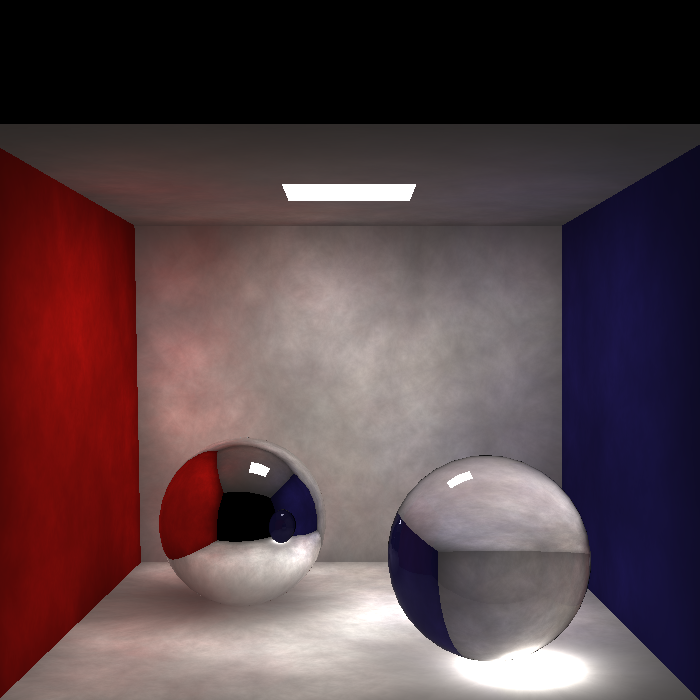
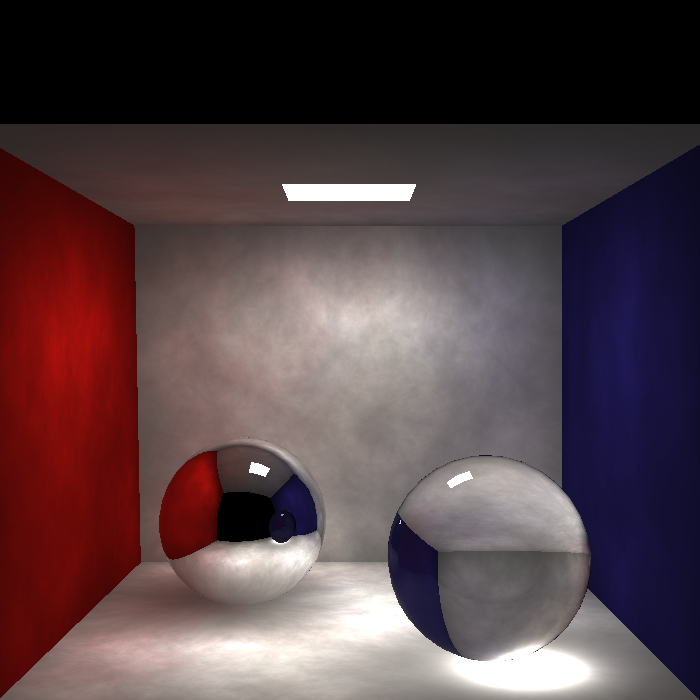
make clean of warnings

diff --git a/src/wavefront_material.rs b/src/wavefront_material.rs
@@ -64,22 +64,18 @@ impl MergeValues for Colour {
 impl<Raw: Copy + RawSurfaceValue + MergeValues, Texture: Copy + TextureSurfaceValue<Raw>>
   WFSurfaceProperty<Raw, Texture>
 {
-  pub fn new() -> WFSurfaceProperty<Raw, Texture> {
-    WFSurfaceProperty::None
-  }
   pub fn raw_for_fragment(&self, scene: &Scene, fragment: &Fragment) -> Raw {
     return match self {
       WFSurfaceProperty::None => Raw::empty(),
       WFSurfaceProperty::Single(v) => *v,
       WFSurfaceProperty::Texture(t) => t.raw_for_fragment(scene, fragment),
       WFSurfaceProperty::Complex(c, t) => c.merge(t.raw_for_fragment(scene, fragment)),
-      _ => panic!(),
     };
   }
   pub fn option_for_fragment(&self, scene: &Scene, fragment: &Fragment) -> Option<Raw> {
     return match self {
       WFSurfaceProperty::None => None,
-      raw => Some(self.raw_for_fragment(scene, fragment)),
+      _raw => Some(self.raw_for_fragment(scene, fragment)),
     };
   }
 }
@@ -167,7 +163,7 @@ impl Material for WFMaterial {
       return result;
     }
 
-    let mut transparent_colour = if let Some(transparent_colour) = result.transparent_colour {
+    let transparent_colour = if let Some(transparent_colour) = result.transparent_colour {
       transparent_colour
     } else {
       Colour::RGB(1.0, 1.0, 1.0) //return result;
@@ -176,8 +172,8 @@ impl Material for WFMaterial {
     let (refracted_vector, new_context): (Vec4d, RayContext) = match self.index_of_refraction {
       None => (f.view, ray.ray_context.clone()),
       Some(ior) => {
-        let V = f.view * -1.0;
-        let in_object = V.dot(f.true_normal) > 0.0;
+        let view = f.view * -1.0;
+        let in_object = view.dot(f.true_normal) > 0.0;
         let (ni, nt, new_context) = if in_object {
           let new_context = ray.ray_context.exit_material();
           (
@@ -191,7 +187,7 @@ impl Material for WFMaterial {
         };
         let mut nr = ni / nt;
 
-        let n_dot_v = normal.dot(V);
+        let n_dot_v = normal.dot(view);
 
         let inner = 1.0 - nr * nr * (1.0 - n_dot_v * n_dot_v);
         if inner < 0.0 {
@@ -221,7 +217,7 @@ impl Material for WFMaterial {
             refraction_weight -= fresnel_weight;
           }
           (
-            ((nr * n_dot_v - inner.sqrt()) * normal - nr * V).normalize(),
+            ((nr * n_dot_v - inner.sqrt()) * normal - nr * view).normalize(),
             new_context,
           )
         }
@@ -342,8 +338,6 @@ pub fn load_scene(settings: &SceneSettings) -> Scene {
 
   obj.load_mtls().unwrap();
 
-  let directory = scn.directory.clone();
-
   for [x, y, z] in obj.position.iter() {
     scn.positions.push(Vec4d::point(*x as f64, *y as f64, *z as f64));
   }
@@ -381,7 +375,6 @@ pub fn load_scene(settings: &SceneSettings) -> Scene {
     let mut object_triangles: Vec<Triangle> = vec![];
 
     let group_count = object.groups.len();
-    let mut lights: Vec<(usize, usize)> = vec![];
     for group_index in 0..group_count {
       let ref group = &object.groups[group_index];
       let material_index = if let Some(ref mat) = group.material {

diff --git a/src/photon_map.rs b/src/photon_map.rs
@@ -34,7 +34,6 @@ impl HasPosition for Photon {
 pub enum RecordMode {
   TerminatePath,
   DontRecord,
-  RecordAndTerminate,
   Record,
 }
 
@@ -49,7 +48,6 @@ impl RecordMode {
   pub fn should_terminate(&self) -> bool {
     match self {
       RecordMode::TerminatePath => true,
-      RecordMode::RecordAndTerminate => true,
       _ => false,
     }
   }
@@ -188,12 +186,12 @@ impl<Selector: PhotonSelector> PhotonMap<Selector> {
             let prob_diffuse = (surface.diffuse_colour * photon_colour).max_value() / photon_colour.max_value();
             let prob_specular = (surface.specular_colour * photon_colour).max_value() / photon_colour.max_value();
             let p = random(0.0, 1.0);
-            let (new_direction, new_colour) = if p < prob_diffuse {
+            let (new_direction, new_colour) = if p * remaining_weight < prob_diffuse {
               (
                 random_in_hemisphere(surface.normal),
                 surface.diffuse_colour * photon_colour * (1.0 / prob_diffuse),
               )
-            } else if p < (prob_diffuse + prob_specular) {
+            } else if p * remaining_weight < (prob_diffuse + prob_specular) {
               (
                 fragment.view.reflect(surface.normal),
                 surface.specular_colour * photon_colour * (1.0 / prob_specular),
@@ -310,7 +308,6 @@ fn is_specular(surface: &MaterialCollisionInfo) -> bool {
   let mut secondary_weight = 0.0;
   for secondary in &surface.secondaries {
     secondary_weight += secondary.2;
-    return true;
   }
   if random(0.0, 1.0) < secondary_weight {
     return true;
@@ -335,12 +332,11 @@ impl PhotonSelector for DiffuseSelector {
 
   fn weight_for_sample(
     &self,
-    position: Vec4d,
-    photon: &Photon,
-    photon_count: usize,
-    sample_radius: f64,
+    _position: Vec4d,
+    _photon: &Photon,
+    _photon_count: usize,
+    _sample_radius: f64,
   ) -> Option<f64> {
-    let photon_distance = (photon.position - position).length();
     Some(1.0)
   }
 }
@@ -366,10 +362,10 @@ impl PhotonSelector for CausticSelector {
   }
   fn weight_for_sample(
     &self,
-    position: Vec4d,
-    photon: &Photon,
-    photon_count: usize,
-    sample_radius: f64,
+    _position: Vec4d,
+    _photon: &Photon,
+    _photon_count: usize,
+    _sample_radius: f64,
   ) -> Option<f64> {
     Some(1.0) // / photon_count as f64)
   }

diff --git a/src/camera.rs b/src/camera.rs
@@ -3,22 +3,19 @@ use vectors::Vec4d;
 
 pub trait Camera {
   fn get_rays(&self, width: usize, height: usize) -> Vec<(usize, usize, f64, Ray)>;
-  fn get_differentials(&self, r: &Ray) -> (Ray, Ray);
 }
 
 pub struct PerspectiveCamera {
-  width: usize,
-  height: usize,
+  _width: usize,
+  _height: usize,
   position: Vec4d,
-  direction: Vec4d,
-  up: Vec4d,
-  fov: f64,
+  _direction: Vec4d,
+  _up: Vec4d,
+  _fov: f64,
   x_delta: Vec4d,
   y_delta: Vec4d,
   samples_per_pixel: usize,
   view_origin: Vec4d,
-  dxDifferential: Ray,
-  dyDifferential: Ray,
 }
 
 impl PerspectiveCamera {
@@ -51,18 +48,16 @@ impl PerspectiveCamera {
     let y_delta = (up * 2. * half_height) * (1. / height as f64);
 
     return PerspectiveCamera {
-      width,
-      height,
+      _width: width,
+      _height: height,
       position,
-      direction,
+      _direction: direction,
       view_origin,
-      up,
-      fov,
+      _up: up,
+      _fov: fov,
       x_delta,
       y_delta,
       samples_per_pixel,
-      dxDifferential: Ray::new(position, x_delta, None),
-      dyDifferential: Ray::new(position, y_delta, None),
     };
   }
 }
@@ -83,8 +78,5 @@ impl Camera for PerspectiveCamera {
       }
     }
     return result;
-  }
-  fn get_differentials(&self, _r: &Ray) -> (Ray, Ray) {
-    return (self.dxDifferential.clone(), self.dyDifferential.clone());
   }
 }

diff --git a/src/triangle.rs b/src/triangle.rs
@@ -1,6 +1,5 @@
 use bounding_box::*;
 use collision::Collision;
-use colour::Colour;
 use fragment::Fragment;
 use intersectable::*;
 use rand::{thread_rng, Rng};
@@ -203,23 +202,6 @@ impl Triangle {
     }
 
     return Some((Collision::new(t, Vec2d(u, v)), self));
-  }
-
-  pub fn barycentric_for_point(&self, position: Vec4d) -> (f64, f64, f64) {
-    // From https://gamedev.stackexchange.com/questions/23743/whats-the-most-efficient-way-to-find-barycentric-coordinates
-    let v0 = self.edges[0];
-    let v1 = self.edges[1];
-    let v2 = position - self.origin;
-    let d00 = v0.dot(v0);
-    let d01 = v0.dot(v1);
-    let d11 = v1.dot(v1);
-    let d20 = v2.dot(v0);
-    let d21 = v2.dot(v1);
-    let denom = d00 * d11 - d01 * d01;
-    let v = (d11 * d20 - d01 * d21) / denom;
-    let w = (d00 * d21 - d01 * d20) / denom;
-    let u = 1.0 - v - w;
-    return (u, v, w);
   }
 
   fn true_normal(&self) -> Vec4d {

diff --git a/src/kdtree.rs b/src/kdtree.rs
@@ -98,17 +98,10 @@ impl<T: Clone + HasPosition> KDTreeNode<T> {
     }
   }
 
-  fn bounds(&self) -> BoundingBox {
-    match self {
-      KDTreeNode::Node(n) => n.bounds,
-      KDTreeNode::Leaf(_, b) => *b,
-    }
-  }
-
   // Far from optimal -- the furthest node should start its calculation on top of the existing list
   fn nearest(&self, nearest_elements: &mut ElementAccumulator<(f64, T)>, position: Vec4d, max_distance: f64) {
     let node = match self {
-      KDTreeNode::Leaf(elements, bounds) => {
+      KDTreeNode::Leaf(elements, _bounds) => {
         for element in elements {
           let distance = (position - element.get_position()).length();
           if distance <= max_distance {

diff --git a/src/material.rs b/src/material.rs
@@ -9,7 +9,7 @@ use vectors::Vec4d;
 pub enum Transparency {
   Opaque,
   Constant(f64),
-  Halo(f64), // 1.0 - (N*v)(1.0-factor)
+  // Halo(f64), // 1.0 - (N*v)(1.0-factor)
 }
 
 #[derive(Clone)]
@@ -44,7 +44,7 @@ impl Material for DefaultMaterial {
     false
   }
 
-  fn compute_surface_properties(&self, s: &Scene, ray: &Ray, f: &Fragment) -> MaterialCollisionInfo {
+  fn compute_surface_properties(&self, _s: &Scene, _ray: &Ray, f: &Fragment) -> MaterialCollisionInfo {
     MaterialCollisionInfo {
       ambient_colour: self.colour,
       diffuse_colour: self.colour,

diff --git a/src/ray.rs b/src/ray.rs
@@ -10,13 +10,11 @@ impl RayContext {
     RayContext { ior: vec![] }
   }
 
-  pub fn enter_material(&self, ior: f64) -> RayContext {
-    let mut result = self.clone();
-
-    return result;
+  pub fn enter_material(&self, _ior: f64) -> RayContext {
+    self.clone()
   }
 
-  pub fn current_ior_or(&self, or: f64) -> f64 {
+  pub fn current_ior_or(&self, _or: f64) -> f64 {
     *self.ior.last().unwrap_or(&1.0)
   }
   pub fn exit_material(&self) -> RayContext {

diff --git a/src/heap.rs b/src/heap.rs
@@ -20,12 +20,6 @@ impl<'a, T: Clone> PriorityHeap<'a, T> {
     buffer.sort_by(|a, b| (self.comparator)(a, b).reverse());
     self.data.append(buffer);
   }
-  pub fn is_empty(&self) -> bool {
-    return self.data.len() == 0;
-  }
-  pub fn is_full(&self) -> bool {
-    return self.max_size == self.data.len();
-  }
   pub fn top(&self) -> Option<&T> {
     if self.data.len() == 0 {
       None

diff --git a/src/main.rs b/src/main.rs
@@ -1,3 +1,5 @@
+#![feature(stdsimd)]
+
 extern crate clap;
 extern crate genmesh;
 extern crate image;
@@ -128,7 +130,6 @@ fn load_settings() -> SceneSettings {
 fn main() {
   let settings = load_settings();
 
-  const SIZE: usize = 100;
   let mut scn = load_scene(&settings);
   scn.finalize(settings.max_leaf_photons);
   let camera = PerspectiveCamera::new(

diff --git a/src/fragment.rs b/src/fragment.rs
@@ -2,11 +2,6 @@ use scene::MaterialIdx;
 use vectors::Vec2d;
 use vectors::Vec4d;
 
-pub struct FragmentDifferentials {
-  pub dpdx: Vec4d,
-  pub dpdy: Vec4d,
-}
-
 pub struct Fragment {
   pub position: Vec4d,
   pub normal: Vec4d,

diff --git a/src/texture.rs b/src/texture.rs
@@ -1,8 +1,6 @@
 use colour::Colour;
 use image::*;
 use scene::Scene;
-use std::cell::*;
-use std::ops::Deref;
 use vectors::{Vec2d, Vec4d};
 
 #[derive(Debug, Copy, Clone)]

diff --git a/src/shader.rs b/src/shader.rs
@@ -1,6 +1,5 @@
 use collision::Collision;
 use fragment::Fragment;
-use material::MaterialCollisionInfo;
 use ray::Ray;
 use scene::Scene;
 use vectors::Vec4d;
